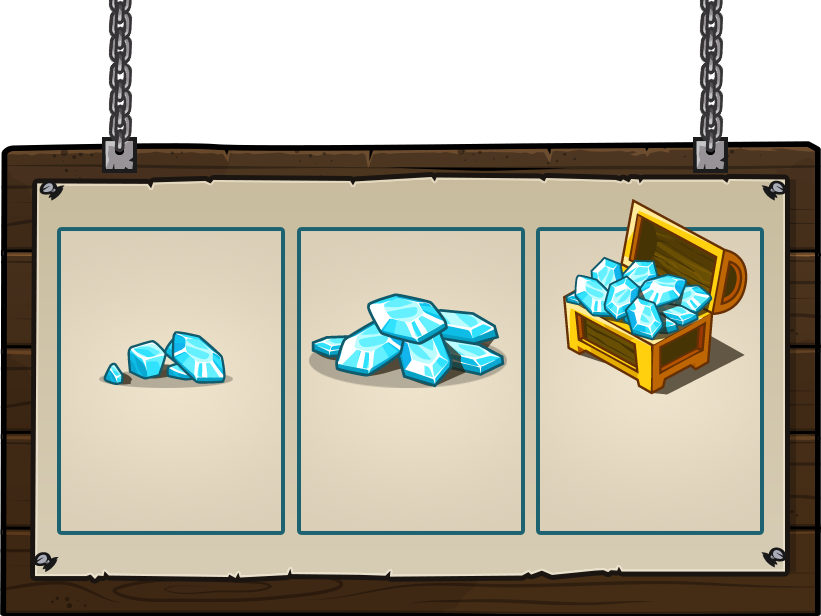
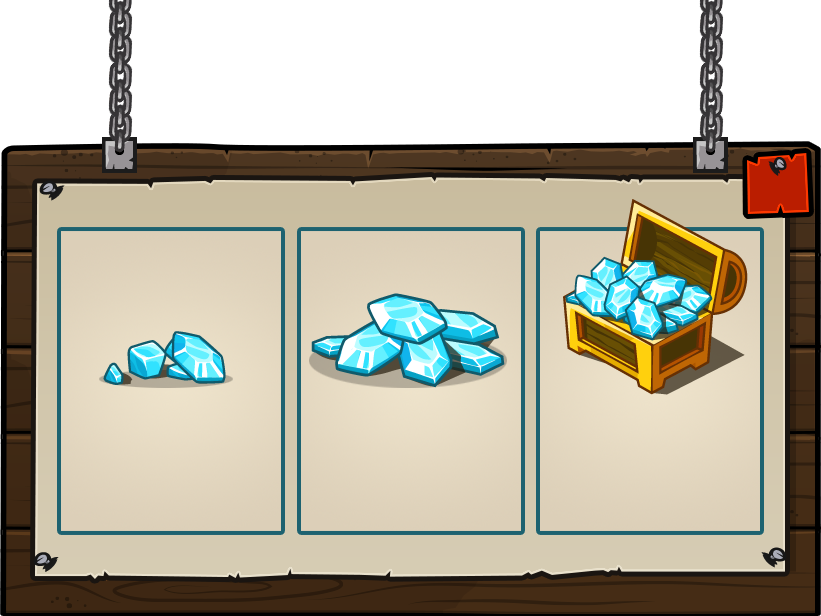
Add exit button to buy gems window

Changed region(s): [[0.8831, 0.2159, 1.0, 0.3701]]

diff --git a/app/styles/play/modal/buy-gems-modal.sass b/app/styles/play/modal/buy-gems-modal.sass
@@ -1,3 +1,5 @@
+@import "app/styles/mixins"
+
 #buy-gems-modal
 
   //- Clear modal defaults
@@ -7,6 +9,24 @@
     width: 820px
     height: 460px
     background: none
+
+  //- Close modal button
+
+  #close-modal
+    position: absolute
+    left: 745px
+    top: 0px
+    width: 60px
+    height: 60px
+    color: white
+    text-align: center
+    font-size: 30px
+    padding-top: 15px
+    cursor: pointer
+    @include rotate(-3deg)
+
+    &:hover
+      color: yellow
 
   //- Background
   #buy-gems-background
